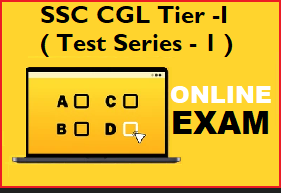
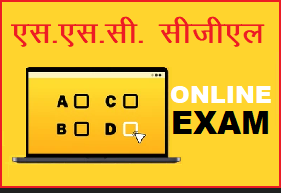
gk

Changed region(s): [[0.0285, 0.0311, 0.9395, 0.3109]]

diff --git a/Hindi-job/index.html b/Hindi-job/index.html
@@ -7,7 +7,7 @@
 <head>
     <!-- Basic Page -->
     <meta charset="UTF-8">
-    <title>Hindi-Job.com</title>
+    <title>Studymasala.in</title>
     <!-- Mobile Specific -->
     <meta content="IE=edge" http-equiv="X-UA-Compatible">
     <meta content="width=device-width, initial-scale=1.0" name="viewport">
@@ -1025,7 +1025,7 @@ Banking job <br> Complete Course
                                                           <div class="video-content"><h9 class="">
 <a href="All-Online-exam/SSC-CGL-Tier-I-(-Test-Series-1)/index.html">
 
-एसएससी सीजीएल टियर I                                        </a></h9><div class="video-info d-flex align-items-center">
+एस.एस.सी. सीजीएल टियर I                                        </a></h9><div class="video-info d-flex align-items-center">
                                                           <span class="video-age">
  टेस्ट सीरीज 1 <br>  परीक्षा भाषा - हिंदी <br>  60 मिनट में 100 प्रश्न  
                                                           </span></div></div></div><!-- video Block End --></div>
